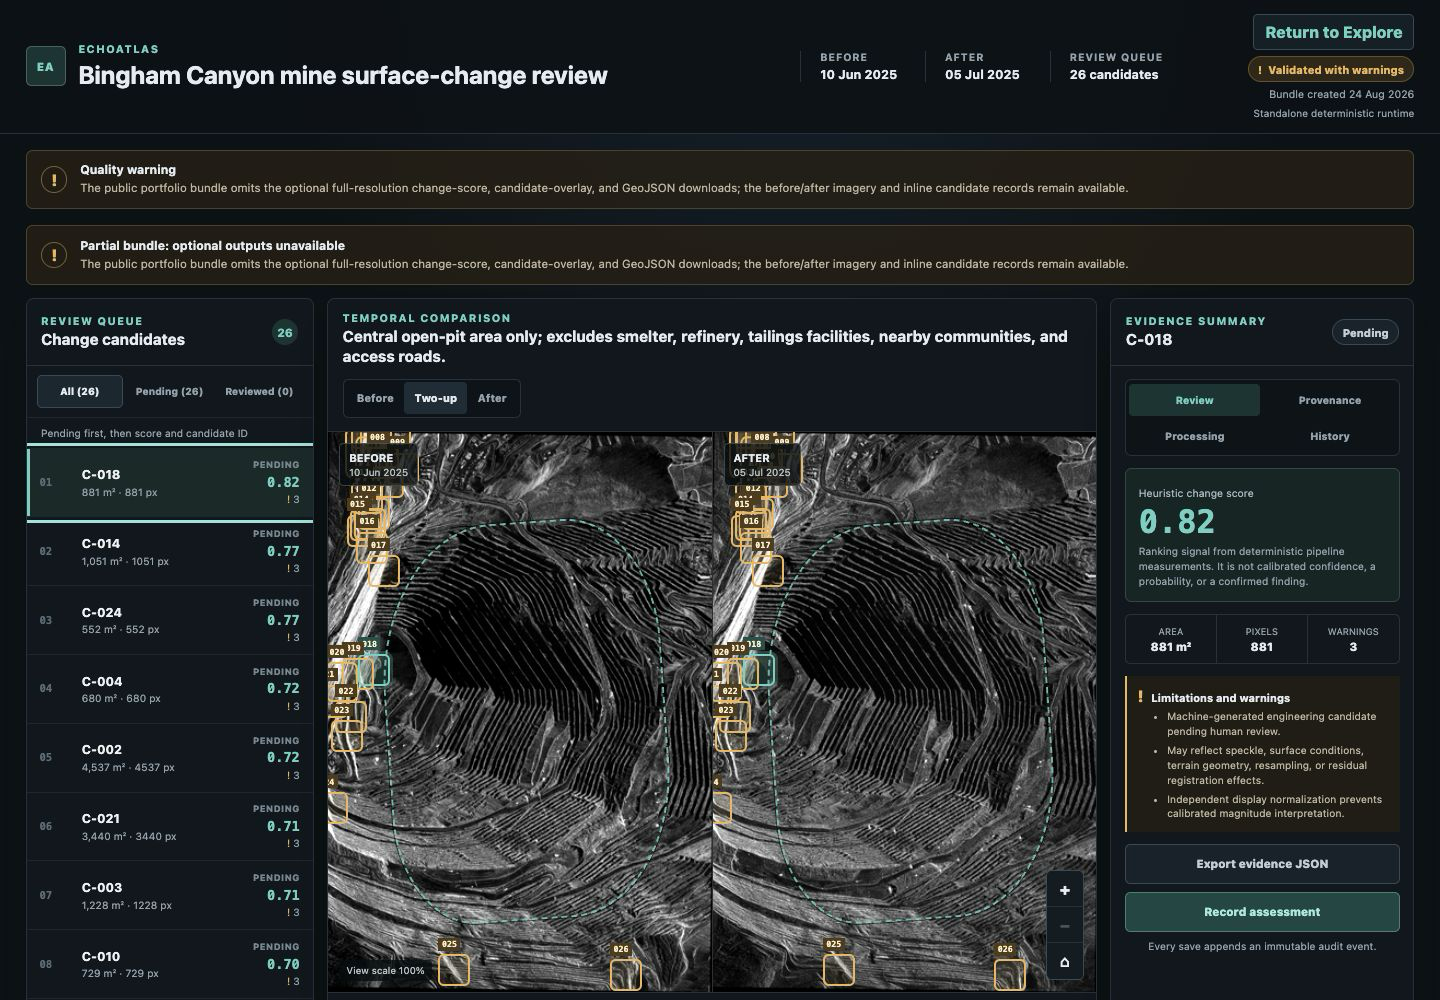
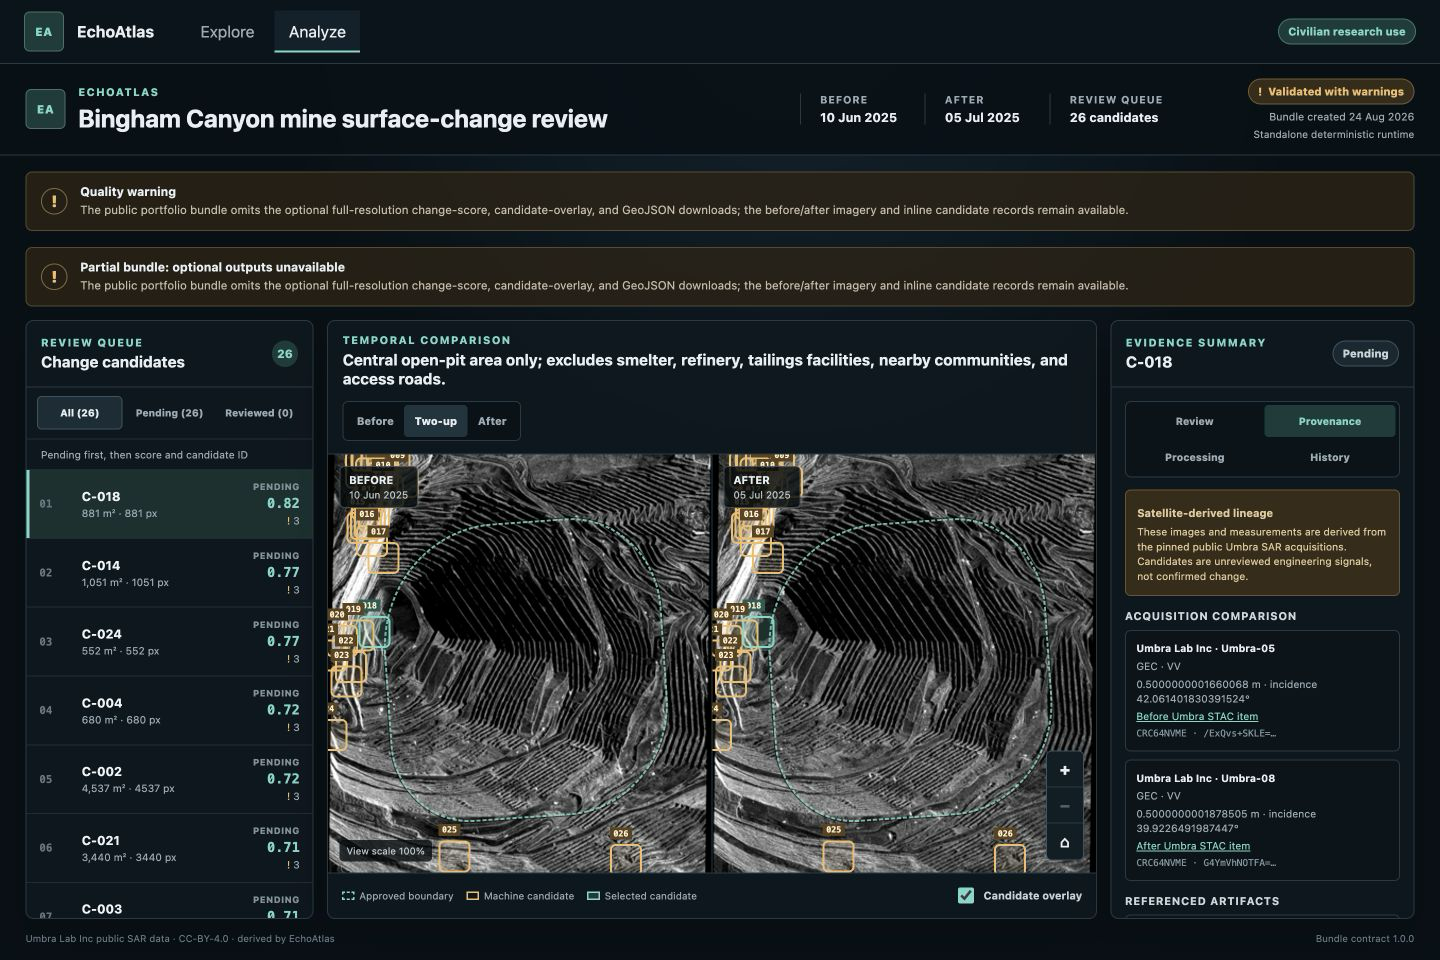
PORT-ECHO-001 refresh EchoAtlas production media

diff --git a/app/portfolio-data.ts b/app/portfolio-data.ts
@@ -1170,7 +1170,7 @@ export const projects: PortfolioProject[] = [
       src: '/projects/echoatlas/analyze-hero.png',
       alt: 'EchoAtlas Analyze workspace with public Umbra-derived before and after imagery, machine-generated candidate outlines, and an analyst review queue',
       width: 1440,
-      height: 1000,
+      height: 960,
     },
     galleryTitle: 'From provider availability to bounded human review',
     gallerySummary:
@@ -1178,9 +1178,9 @@ export const projects: PortfolioProject[] = [
     gallery: [
       {
         src: '/projects/echoatlas/explore-results.png',
-        alt: 'EchoAtlas Explore mode showing the approved Bingham Canyon area, attributed map navigation, provider controls, and the equivalent acquisition-results path',
+        alt: 'EchoAtlas Explore mode showing the approved Bingham Canyon area, attributed map navigation, provider controls, and an independently scrollable 17-record acquisition-results queue',
         width: 1440,
-        height: 1586,
+        height: 960,
         label: 'Explore provider availability',
         caption: 'MapLibre supports navigation while the equivalent results list carries the provider records, source links, warnings, filters, and pair-selection controls. Global navigation never implies global imagery coverage.',
         layout: 'wide',
@@ -1189,16 +1189,16 @@ export const projects: PortfolioProject[] = [
         src: '/projects/echoatlas/pair-review.png',
         alt: 'EchoAtlas pair-review dialog comparing two public Umbra acquisitions with dates, metadata, licensing, overlap, and an immutable manifest',
         width: 1440,
-        height: 1000,
+        height: 960,
         label: 'Review pair comparability',
         caption: 'The approved pair is 25.1 days apart with about 99.9 percent mutual footprint overlap and matching GEC, VV, and ascending metadata. Those are engineering comparability signals, not proof of scientific validity.',
         layout: 'wide',
       },
       {
         src: '/projects/echoatlas/analyze-workspace.png',
-        alt: 'EchoAtlas Analyze workspace showing public Umbra-derived before and after imagery, 26 candidate records, the approved civilian review boundary, and interpretation warnings',
+        alt: 'EchoAtlas Analyze workspace showing public Umbra-derived before and after imagery, the independently scrollable 26-candidate queue, and selected-candidate acquisition provenance',
         width: 1440,
-        height: 1000,
+        height: 960,
         label: 'Analyze prepared evidence',
         caption: 'A validated versioned bundle brings two real-derived display images, 26 machine-generated review candidates, lineage, warnings, hashes, and Umbra attribution into the human review workspace.',
         layout: 'wide',

diff --git a/docs/PROJECT_MEDIA_SOURCES.md b/docs/PROJECT_MEDIA_SOURCES.md
@@ -51,11 +51,11 @@ The Chord Explorer capture was excluded because browser-level MIDI permission wa
 ## EchoAtlas
 
 Source repository: `earth-atlas-ai`
-Source release: PR `#52`, merged as `08640db` on 2026-08-31; public surface verified at `https://earth-atlas-ai.vercel.app/`
+Source release: the Analyze viewport and independent candidate-queue correction merged in PR `#57` as `5d92cfe`; PR `#58` recorded the release evidence. The public surface was recaptured from `https://earth-atlas-ai.vercel.app/` on 2026-08-31 after both merges.
 
-- `explore-results.png` ← live Vercel capture of the focused two-record Umbra search result on 2026-08-31
-- `pair-review.png` ← live Vercel capture of the approved Umbra pair and completed engineering-comparability review on 2026-08-31
-- `analyze-workspace.png` ← live Vercel capture of the prepared Bingham Canyon bundle with candidate C-018 selected on 2026-08-31
-- `analyze-hero.png` ← presentation copy of the same selected-candidate live capture
+- `explore-results.png` ← current 1440×960 live Vercel capture with Explore/Analyze navigation, the Bingham Canyon map, and the independently scrollable 17-record provider queue
+- `pair-review.png` ← current 1440×960 live Vercel capture of the approved Umbra pair and completed engineering-comparability review
+- `analyze-workspace.png` ← current 1440×960 live Vercel capture of the prepared Bingham Canyon bundle with candidate C-018 selected and its acquisition provenance visible
+- `analyze-hero.png` ← current 1440×960 live Vercel capture with the 26-candidate independent scroll region, balanced imagery, and selected-candidate evidence
 
 The imagery shown in Analyze is derived from public Umbra SAR data licensed CC BY 4.0. It depicts the approved Bingham Canyon civilian review area and must retain the visible interpretation and attribution boundaries.
